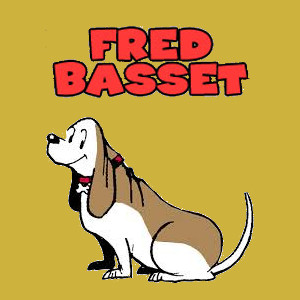
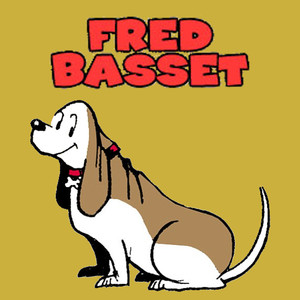
Update cover of Fred Basset comic
http://images.gocomics.com/images/gocomics/flare/fred-basset/fred-basset-topper-lo.jpg
http://i.dailymail.co.uk/i/pix/2013/07/09/article-2359101-1ABCBCDB000005DC-587_634x393.jpg

Changed region(s): [[0.09, 0.03, 0.9, 0.99]]

diff --git a/src/Comics/FredBasset.cpp b/src/Comics/FredBasset.cpp
@@ -16,7 +16,7 @@ FredBasset::FredBasset(QObject *parent) :
 {
     m_info.id             = QString("fredbasset");
     m_info.name           = QString("Fred Basset");
-    m_info.color          = QColor(205, 178, 61);
+    m_info.color          = QColor(203, 176, 61);
     m_info.authors        = QStringList() << "Alex Graham" << "Michael Martin";
     m_info.homepage       = QUrl("http://www.gocomics.com/fredbasset/");
     m_info.country        = QLocale::UnitedKingdom;
